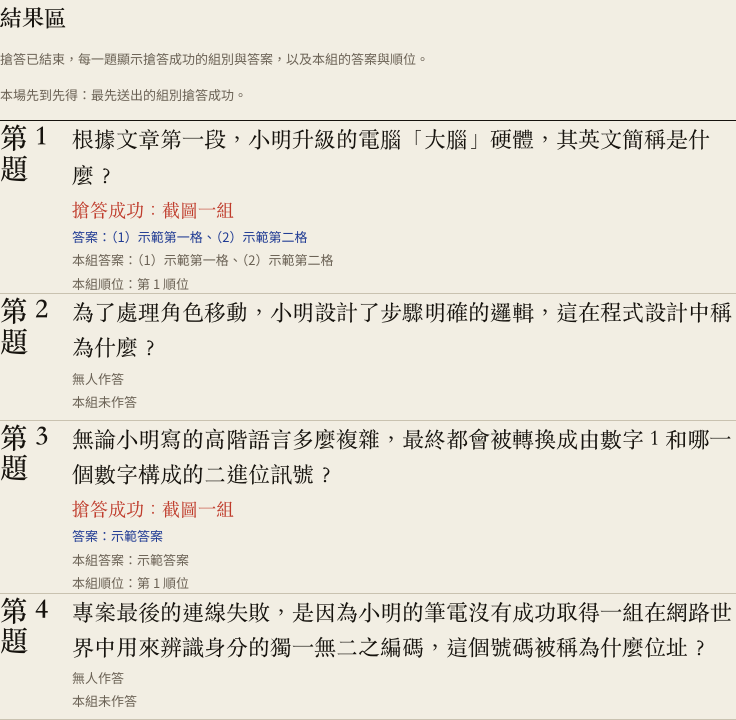
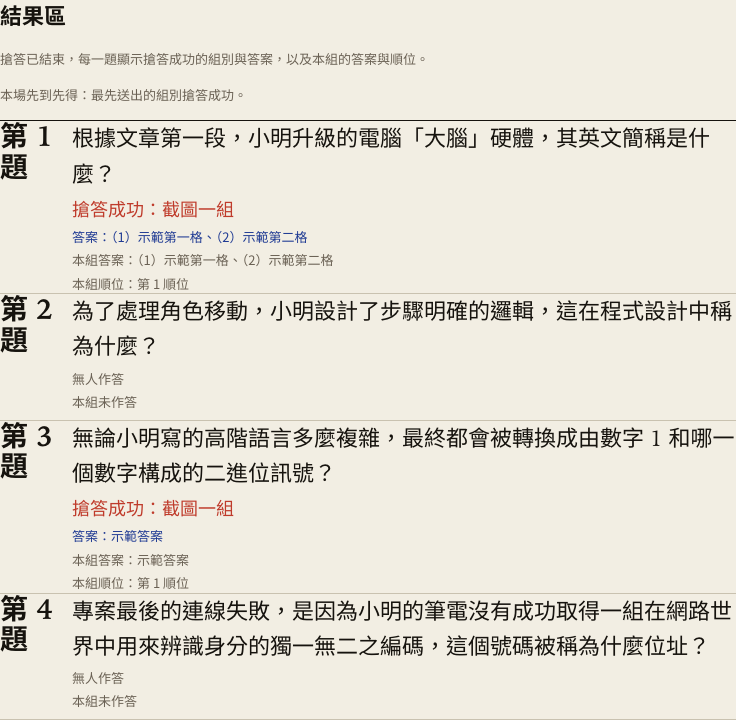
feat(web): 去掉中華感——中文改黑體、數字用拉丁襯線、拿掉手繪圈與訂正線

diff --git a/web/src/styles/tokens.css b/web/src/styles/tokens.css
@@ -34,14 +34,21 @@
   --color-border: var(--color-rule);
   --color-focus: var(--color-ink);
 
-  /* 字體：襯線做顯示與數字，無襯線做內文與欄標 */
+  /*
+   * 字體：拉丁襯線（數字、英文、Q1 這類標記）＋ 中文黑體，**逐字 fallback 混排**。
+   * 襯線字沒有中文字，所以中文會自動落到後面的黑體 → 數字與英文有襯線的
+   * 編輯感、中文是乾淨的黑體，不會出現明體／宋體那種「中文報紙」的味道
+   * （2026-11-19 review：要去掉中華感，但保留紙與細線的骨架）。
+   */
   --font-family-display:
-    'Noto Serif TC', 'Source Han Serif TC', 'Songti TC', 'PMingLiU', 'SimSun', 'Times New Roman',
-    serif;
+    'Iowan Old Style', 'Source Serif 4', 'Source Serif Pro', Georgia, 'Times New Roman',
+    'Noto Sans TC', 'PingFang TC', 'Microsoft JhengHei', system-ui, sans-serif;
   --font-family-base:
-    'Noto Sans TC', 'PingFang TC', 'Microsoft JhengHei', 'Heiti TC', system-ui, -apple-system,
-    'Segoe UI', sans-serif;
+    'Noto Sans TC', 'PingFang TC', 'Microsoft JhengHei', 'Heiti TC', 'Helvetica Neue', Arial,
+    system-ui, -apple-system, 'Segoe UI', sans-serif;
   --font-family-utility: var(--font-family-base);
+  /* 只有純拉丁的小標才拉字距。 */
+  --letter-spacing-latin: 0.16em;
 
   --font-size-caption: 0.75rem;
   --font-size-small: 0.8125rem;
@@ -55,8 +62,8 @@
   --line-height-base: 1.5;
   --line-height-question: 1.6;
   --line-height-display: 1.1;
-  /* 欄標（報紙小標）的字距 */
-  --letter-spacing-utility: 0.18em;
+  /* 欄標字距：中文幾乎不拉，拉開就會變成中文印刷的排法。 */
+  --letter-spacing-utility: 0.02em;
 
   /* 間距 */
   --space-0: 0;

diff --git a/web/src/features/projector/ProjectorPage.module.css b/web/src/features/projector/ProjectorPage.module.css
@@ -195,14 +195,16 @@
   text-decoration-thickness: 1px;
 }
 
-/* 最新揭曉的那一題：朱紅圈出搶答成功的組別（無人作答不畫圈）。 */
+/*
+ * 最新揭曉的那一題：贏家組別用**朱紅底線**標出。
+ * 不用手繪橢圓圈——那個太有書法／calligraphy 的味道（2026-11-19 review：
+ * 要去掉中華感）。朱紅在此是「螢光筆標記」的用法，不是字色。
+ */
 .revealItem:last-child .revealWinner:not(.revealWinnerEmpty) {
-  color: var(--color-vermilion);
-  padding: 0 var(--space-2);
-  border: var(--border-width-strong) solid var(--color-vermilion);
-  border-radius: 50%;
+  color: var(--color-ink);
+  border-block-end: 3px solid var(--color-vermilion);
+  padding-block-end: 2px;
   justify-self: start;
-  transform: rotate(-2deg);
 }
 
 .winCountSection {

diff --git a/web/src/styles/base.css b/web/src/styles/base.css
@@ -63,12 +63,17 @@ input[type='radio'] {
   border-block-end: var(--border-width-thin) solid var(--color-rule);
 }
 
-/* 報紙欄標：小字、全形寬字距，上下各一條細線。 */
+/* 欄標：小字、墨灰。中文不拉字距（拉了就有中文印刷的味道）。 */
 .utility-caption {
   font-family: var(--font-family-utility);
   font-size: var(--font-size-caption);
   letter-spacing: var(--letter-spacing-utility);
   color: var(--color-ink-muted);
+}
+
+/* 純拉丁的小標（Q1、PROJECTOR 這類）才拉字距。 */
+.utility-caption--latin {
+  letter-spacing: var(--letter-spacing-latin);
 }
 
 @media (prefers-reduced-motion: reduce) {

diff --git a/web/src/features/student/AnswerArea.module.css b/web/src/features/student/AnswerArea.module.css
@@ -17,6 +17,7 @@
 .title {
   font-family: var(--font-family-display);
   font-size: var(--font-size-question);
+  font-weight: 600;
 }
 
 .description {
@@ -31,8 +32,8 @@
   margin-block-start: var(--space-4);
   border-block-start: var(--border-width-thin) solid var(--color-ink);
   list-style: none;
-  /* 朱紅訂正線：整欄作答區的左邊界。 */
-  border-inline-start: var(--border-width-strong) solid var(--color-vermilion);
+  /* 作答欄左邊界用一般墨線，不用朱紅訂正線（那是中文試卷的符號）。 */
+  border-inline-start: var(--border-width-thin) solid var(--color-ink);
   padding-inline-start: var(--space-4);
 }
 

diff --git a/web/src/features/teacher/AnswerBoard.module.css b/web/src/features/teacher/AnswerBoard.module.css
@@ -16,6 +16,7 @@
 .title {
   font-family: var(--font-family-utility);
   font-size: var(--font-size-large);
+  font-weight: 600;
   letter-spacing: var(--letter-spacing-utility);
   color: var(--color-ink);
 }
@@ -23,6 +24,7 @@
 .progressTitle {
   font-family: var(--font-family-utility);
   font-size: var(--font-size-large);
+  font-weight: 600;
   letter-spacing: var(--letter-spacing-utility);
   color: var(--color-ink);
 }

diff --git a/web/src/features/teacher/QuestionImport.module.css b/web/src/features/teacher/QuestionImport.module.css
@@ -18,6 +18,7 @@
 .title {
   font-family: var(--font-family-utility);
   font-size: var(--font-size-large);
+  font-weight: 600;
   letter-spacing: var(--letter-spacing-utility);
   color: var(--color-ink);
 }
@@ -26,6 +27,7 @@
 .warningsTitle {
   font-family: var(--font-family-utility);
   font-size: var(--font-size-large);
+  font-weight: 600;
   letter-spacing: var(--letter-spacing-utility);
   color: var(--color-ink);
 }

diff --git a/web/src/features/teacher/GroupManager.module.css b/web/src/features/teacher/GroupManager.module.css
@@ -9,6 +9,7 @@
   margin: var(--space-0);
   font-family: var(--font-family-utility);
   font-size: var(--font-size-large);
+  font-weight: 600;
   letter-spacing: var(--letter-spacing-utility);
   color: var(--color-ink);
 }

diff --git a/web/src/features/teacher/PhaseControl.module.css b/web/src/features/teacher/PhaseControl.module.css
@@ -9,6 +9,7 @@
   margin: var(--space-0);
   font-family: var(--font-family-utility);
   font-size: var(--font-size-large);
+  font-weight: 600;
   letter-spacing: var(--letter-spacing-utility);
   color: var(--color-ink);
 }

diff --git a/web/src/features/teacher/QuestionList.module.css b/web/src/features/teacher/QuestionList.module.css
@@ -13,6 +13,7 @@
 .title {
   font-family: var(--font-family-utility);
   font-size: var(--font-size-large);
+  font-weight: 600;
   letter-spacing: var(--letter-spacing-utility);
   color: var(--color-ink);
 }

diff --git a/web/src/features/teacher/TeacherPage.module.css b/web/src/features/teacher/TeacherPage.module.css
@@ -15,6 +15,7 @@
   margin: var(--space-0);
   font-family: var(--font-family-display);
   font-size: var(--font-size-headline);
+  font-weight: 600;
   line-height: var(--line-height-display);
 }
 

diff --git a/web/src/features/student/StudentPage.module.css b/web/src/features/student/StudentPage.module.css
@@ -67,6 +67,7 @@
 .phaseTitle {
   font-family: var(--font-family-display);
   font-size: var(--font-size-question);
+  font-weight: 600;
 }
 
 .description {

diff --git a/design/DESIGN.md b/design/DESIGN.md
@@ -73,15 +73,22 @@ Token：`--phase-preparing`（＝`--color-ink-muted`）、`--phase-open`（＝`-
 
 ## 4. 字體
 
-| 角色            | 字體堆疊                                                                                 | 用途                                             |
-| --------------- | ---------------------------------------------------------------------------------------- | ------------------------------------------------ |
-| 顯示（display） | `"Noto Serif TC", "Source Han Serif TC", "Songti TC", "PMingLiU", "SimSun", serif`       | 題號、組別名、倒數、揭曉的組別名與答案           |
-| 內文（body）    | `"Noto Sans TC", "PingFang TC", "Microsoft JhengHei", "Heiti TC", system-ui, sans-serif` | 說明、表格內文、輸入的字                         |
-| 欄標（utility） | 同內文，但 `letter-spacing: 0.18em`、全形、字級小                                        | 「搶答中」「本場使用公平順位」「各組成成功題數」 |
+**拉丁襯線（數字、英文、Q1 這類標記）＋ 中文黑體，逐字 fallback 混排。**
 
-- **不用 webfont**：教室網路不穩，缺字會直接壞掉；用系統襯線堆疊（macOS 有 Songti TC / 思源宋體，Windows 有 PMingLiU / Noto Serif TC）。
+| 角色            | 字體堆疊                                                                                                              | 用途                                       |
+| --------------- | --------------------------------------------------------------------------------------------------------------------- | ------------------------------------------ |
+| 顯示（display） | `"Iowan Old Style", "Source Serif 4", Georgia, "Times New Roman", "Noto Sans TC", "PingFang TC", "Microsoft JhengHei"` | 題號數字、倒數、組別名、揭曉的組別名與答案 |
+| 內文（body）    | `"Noto Sans TC", "PingFang TC", "Microsoft JhengHei", "Heiti TC", "Helvetica Neue", Arial, system-ui`                  | 說明、表格內文、輸入的字                   |
+| 欄標（utility） | 同內文；**中文不拉字距**，純拉丁小標才拉 `0.16em`                                                                     | 「搶答中」「本場使用公平順位」「各組成功題數」 |
+
+- 襯線字沒有中文字 → 中文會**自動落到後面的黑體**：數字與英文有襯線的編輯感、中文是乾淨的黑體。
+- **中文禁用明體／宋體**（Songti TC、思源宋體、PMingLiU、SimSun）：那是中文教科書與報紙的字，
+  會讓整個介面有「中華／中文印刷」的味道（2026-11-19 review）。
+- **不用 webfont**：教室網路不穩，缺字會直接壞掉；用系統字體堆疊（macOS 有 Iowan Old Style / PingFang TC，
+  Windows 有 Georgia / Microsoft JhengHei）。
 - 數字用襯線體的大寫數字（`font-variant-numeric: lining-nums`），不要用等寬字型。
-- 行長：內文不超過 70 個中文字；襯線大標可以到 28 字。
+- 中文標題改用黑體後，層級靠**字重**（600）與字級撐出來，不靠襯線。
+- 行長：內文不超過 70 個中文字；大標可以到 28 字。
 
 ---
 
@@ -107,9 +114,10 @@ Token：`--phase-preparing`（＝`--color-ink-muted`）、`--phase-open`（＝`-
   - 背景是**純紙色**（不做方格紙：格線太搶、會蓋過內容；2026-11-19 review）。
   - 左欄超大題號（襯線）＋小字「題」；給螢幕閱讀器的「第 N 題」**視覺隱藏**，畫面不重複顯示。
   - 中欄題目與揭曉，右欄各組成功題數；欄與欄之間用垂直細線分隔。
-  - 搶答成功的組別名用**朱紅橢圓環**圈起來（手繪感，不是實心徽章）；無人作答不畫圈。
+  - 搶答成功的組別名用**朱紅底線**（螢光筆式的標記）標出，**不用手繪橢圓圈**（書法味太重）；無人作答不標記。
   - 答案用藍色＋底線。
-- **學生端**：頁首做成「報頭」——小字「目前組別：」＋超大襯線組別名；搶答中時階段字轉朱紅；倒數用超大襯線數字（`0:24`），「剩餘時間」小字在上。
+- **學生端**：頁首做成報頭——小字「目前組別：」＋超大組別名；搶答中時階段字轉朱紅；倒數用超大數字（`0:24`），「剩餘時間」小字在上。
+  作答欄左邊界是**一般墨線**，不用朱紅「訂正線」（那是中文試卷的符號）。
 
 ---
 
@@ -124,6 +132,9 @@ Token：`--phase-preparing`（＝`--color-ink-muted`）、`--phase-open`（＝`-
 5. 大量卡片 + 陰影 + 大標 + 副標 + 三顆特性 icon 的「landing page」排版。
 6. 純灰白背景（`#f7f7f8` 這種）＋系統 sans-serif 全站——這是本次要改掉的舊 look。
 7. 動畫裝飾：只允許狀態轉換（送出、按鈕狀態）用 120–160ms 的簡單過渡；不做進場動畫、不做浮動、不做漸顯。
+8. **中文明體／宋體**（Songti TC、思源宋體、PMingLiU、SimSun）——中文印刷的味道。
+9. **中文拉字距**（`letter-spacing` ≥ 0.1em 加在中文上）——中文欄標的排法；只有純拉丁小標才拉。
+10. **手繪橢圓圈、訂正線**這類中文印刷符號；朱紅只當「螢光筆標記」用（粗底線）。
 
 ---
 
